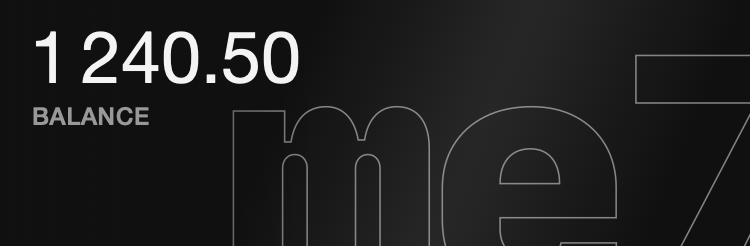
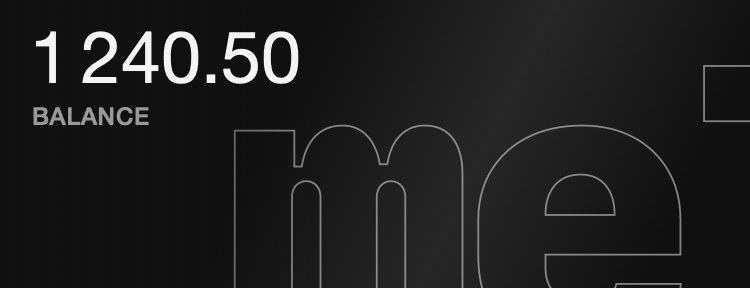
Source of release 1795516988

diff --git a/src/app/passcard.tsx b/src/app/passcard.tsx
@@ -32,7 +32,7 @@ function Sample({ t, receive, address }: { t: Dict; receive: string; address: st
             <b>USDC</b>
           </div>
         </div>
-        <img class="pass-strip" src={p.lang === 'ru' ? stripRu : stripEn} alt="1 240.50" width="375" height="123" />
+        <img class="pass-strip" src={p.lang === 'ru' ? stripRu : stripEn} alt="1 240.50" width="375" height="144" />
         <div class="pass-fields">
           <div class="pass-field">
             <span>{p.sampleArrived}</span>
@@ -47,7 +47,7 @@ function Sample({ t, receive, address }: { t: Dict; receive: string; address: st
           <svg viewBox={`0 0 ${path.size} ${path.size}`} shape-rendering="crispEdges" aria-hidden="true">
             <path d={path.d} />
           </svg>
-          <span>{receive.length > 24 ? `${receive.slice(0, 10)}…${receive.slice(-8)}` : receive}</span>
+          <span>{receive.length > 26 ? `${receive.slice(0, 6)}…${receive.slice(-6)}` : receive}</span>
         </div>
       </div>
       <figcaption class="tag">{p.sample}</figcaption>

diff --git a/src/app/passcard.css b/src/app/passcard.css
@@ -37,7 +37,7 @@
 .pass-fields {
   display: flex;
   justify-content: space-between;
-  align-items: center;
+  align-items: flex-start;
   padding: 8px 12px;
 }
 .pass-logo {
